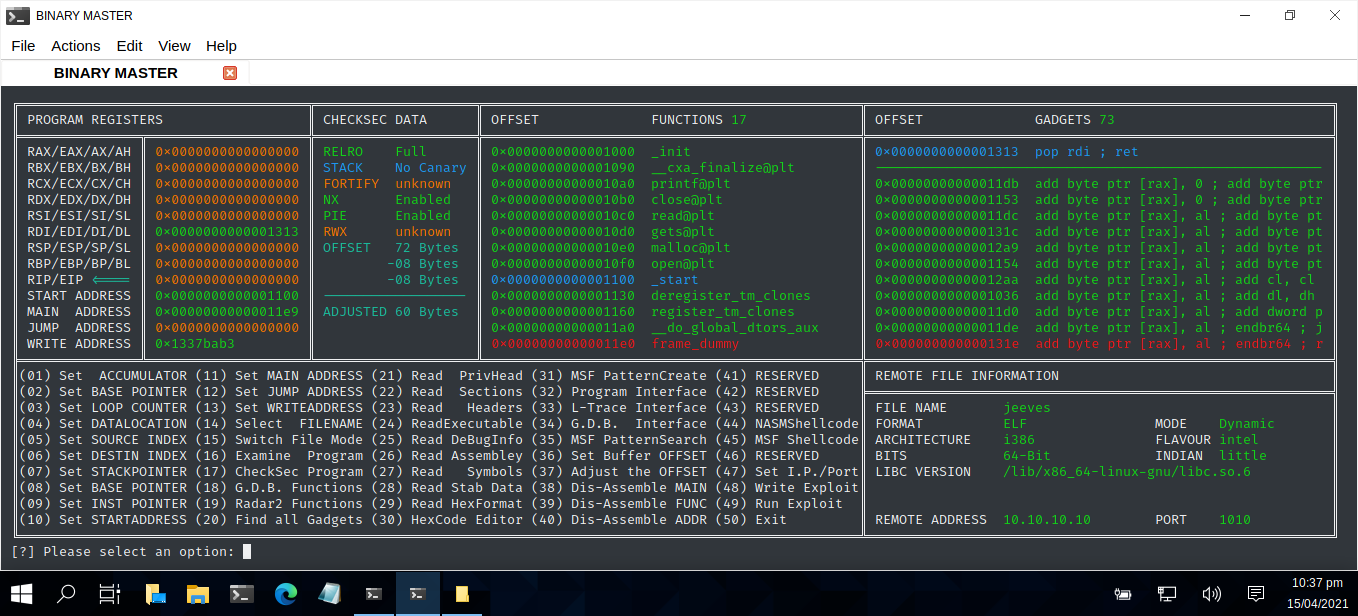
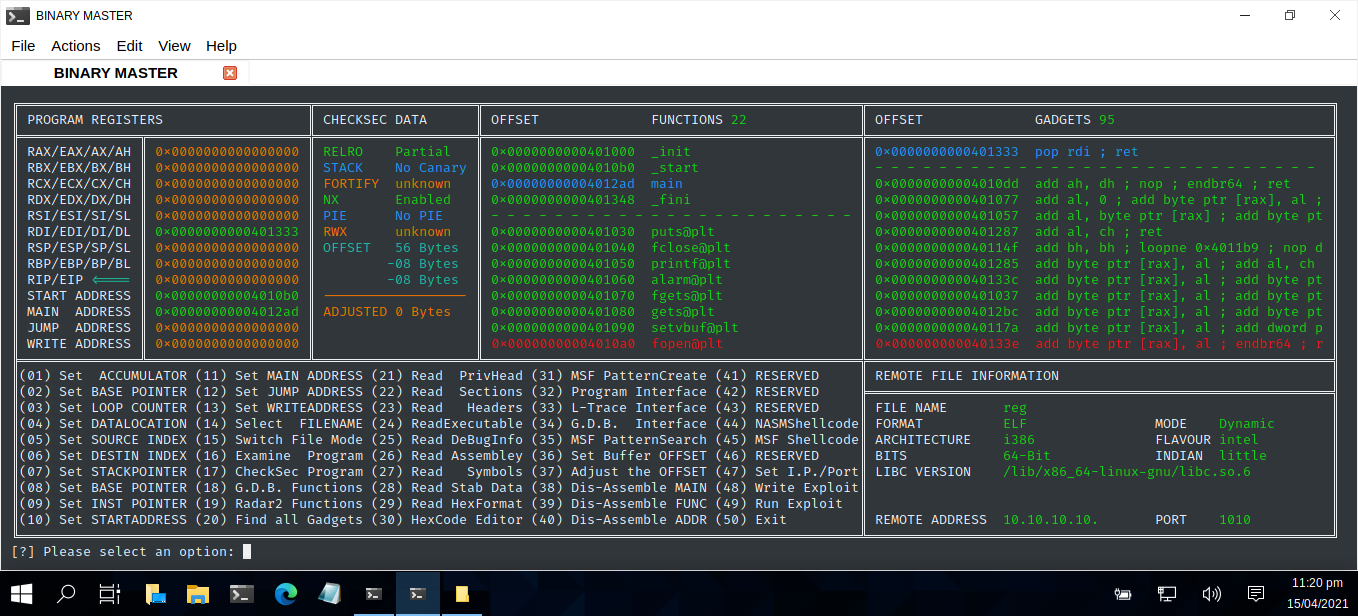
Full Stack

diff --git a/BinMaster.py b/BinMaster.py
@@ -161,7 +161,7 @@ def dispMenu():
       print('\u2551' + " " + colored(RE,colour7) + " " +  '\u2551', end=' ')
    else:
       print('\u2551' + " " + colored(RE,colour6) + " " +  '\u2551', end=' ')
-   if (SRT.rstrip(" ") in FUNC[0]):
+   if (MAN.rstrip(" ") in FUNC[0]):
       print(colored(FUNC[0],colour3), end=' ')
    else:
       print(colored(FUNC[0],colour6), end=' ')   
@@ -183,7 +183,7 @@ def dispMenu():
       else:
          print(colored(ST ,colour6), end=' ')      
    print('\u2551', end=' ')
-   if (SRT.rstrip(" ") in FUNC[1]):
+   if (MAN.rstrip(" ") in FUNC[1]):
       print(colored(FUNC[1],colour3), end=' ')
    else:
       print(colored(FUNC[1],colour6), end=' ')   
@@ -200,7 +200,7 @@ def dispMenu():
       print('\u2551' + " " + colored(FO,colour7) + " " +  '\u2551', end=' ')
    else:
       print('\u2551' + " " + colored(FO,colour6) + " " +  '\u2551', end=' ')   
-   if (SRT.rstrip(" ") in FUNC[2]):
+   if (MAN.rstrip(" ") in FUNC[2]):
       print(colored(FUNC[2],colour3), end=' ')
    else:
       print(colored(FUNC[2],colour6), end=' ')   
@@ -222,7 +222,7 @@ def dispMenu():
       else:
          print(colored(NX,colour6), end=' ')            
    print('\u2551', end=' ')      
-   if (SRT.rstrip(" ") in FUNC[3]):
+   if (MAN.rstrip(" ") in FUNC[3]):
       print(colored(FUNC[3],colour3), end=' ')
    else:
       print(colored(FUNC[3],colour6), end=' ')   
@@ -244,7 +244,7 @@ def dispMenu():
       else:
          print(colored(PI ,colour6), end=' ')         
    print('\u2551', end=' ')
-   if (SRT.rstrip(" ") in FUNC[4]):
+   if (MAN.rstrip(" ") in FUNC[4]):
       print(colored(FUNC[4],colour3), end=' ')
    else:
       print(colored(FUNC[4],colour6), end=' ')   
@@ -266,7 +266,7 @@ def dispMenu():
       else:
          print(colored(RW,colour6), end=' ')            
    print('\u2551', end=' ')   
-   if (SRT.rstrip(" ") in FUNC[5]):
+   if (MAN.rstrip(" ") in FUNC[5]):
       print(colored(FUNC[5],colour3), end=' ')
    else:
       print(colored(FUNC[5],colour6), end=' ')   
@@ -288,7 +288,7 @@ def dispMenu():
    else:
       print(colored("OFFSET   " + OFF[:9],colour2), end=' ')
       print('\u2551', end=' ')            
-   if (SRT.rstrip(" ") in FUNC[6]):
+   if (MAN.rstrip(" ") in FUNC[6]):
       print(colored(FUNC[6],colour3), end=' ')
    else:
       print(colored(FUNC[6],colour6), end=' ')   
@@ -311,7 +311,7 @@ def dispMenu():
    if BITS[:7] == "unknown":
       print(colored("         0 Bytes  ",colour7), end=' ')
    print('\u2551', end=' ')   
-   if (SRT.rstrip(" ") in FUNC[7]):
+   if (MAN.rstrip(" ") in FUNC[7]):
       print(colored(FUNC[7],colour3), end=' ')
    else:
       print(colored(FUNC[7],colour6), end=' ')   
@@ -338,7 +338,7 @@ def dispMenu():
    if BITS[:7] == "unknown":
       print(colored("         0 Bytes  ",colour7), end=' ')
    print('\u2551', end=' ')   
-   if (SRT.rstrip(" ") in FUNC[8]):
+   if (MAN.rstrip(" ") in FUNC[8]):
       print(colored(FUNC[8],colour3), end=' ')
    else:
       print(colored(FUNC[8],colour6), end=' ')      
@@ -357,7 +357,7 @@ def dispMenu():
    else:
       print(colored("-"*COL1,colour2), end=' ')
    print('\u2551', end=' ')   
-   if (SRT.rstrip(" ") in FUNC[9]): 
+   if (MAN.rstrip(" ") in FUNC[9]): 
       print(colored(FUNC[9],colour3), end=' ')
    else:
       print(colored(FUNC[9],colour6), end=' ')      
@@ -380,7 +380,7 @@ def dispMenu():
    else:
       print(colored(OFF2[:9],colour2),end=' ')   
    print('\u2551', end= ' ')
-   if (SRT.rstrip(" ") in FUNC[10]):
+   if (MAN.rstrip(" ") in FUNC[10]):
       print(colored(FUNC[10],colour3), end=' ')
    else:
       print(colored(FUNC[10],colour6), end=' ')   
@@ -395,7 +395,7 @@ def dispMenu():
       print(colored(JMP,colour6), end=' ')
    print('\u2551', end=' ') 
    print("                   " + '\u2551', end= ' ') 
-   if (SRT.rstrip(" ") in FUNC[11]):
+   if (MAN.rstrip(" ") in FUNC[11]):
       print(colored(FUNC[11],colour3), end=' ')
    else:
       print(colored(FUNC[11],colour6), end=' ')   
@@ -410,7 +410,7 @@ def dispMenu():
       print(colored(CUS,colour6), end=' ')
    print('\u2551', end=' ')  
    print("                   " + '\u2551', end= ' ') 
-   if (SRT.rstrip(" ") in FUNC[12]):
+   if (MAN.rstrip(" ") in FUNC[12]):
       print(colored(FUNC[12],colour3), end=' ')
    else:
       if FUNC[13] != "":
@@ -1169,6 +1169,22 @@ while True:
          command("sed -i '/0x/!d' functions.tmp")         
          funcNum = lineCount("functions.tmp")
          funcNum = spacePadding(str(funcNum),7)
+
+         command("cp functions.tmp " + localDir + "/functions.txt")
+         
+         command("awk '/ _init/' functions.tmp > altered.tmp")
+         cutLine("init","functions.tmp")
+         command("awk '/ _start/' functions.tmp >> altered.tmp")         
+         cutLine("start","functions.tmp")         
+         command("awk '/main/' functions.tmp >> altered.tmp")
+         cutLine("main","functions.tmp")
+         command("awk '/ _fini/' functions.tmp >> altered.tmp")                  
+         cutLine("fini","functions.tmp")
+         command("echo '- - - - - - - - - - - - - - - - - - - - - - - -' >> altered.tmp")
+         command("cat functions.tmp >> altered.tmp")
+         command("rm functions.tmp")
+         command("mv altered.tmp functions.tmp")
+                  
          with open("functions.tmp", "r") as functions:
             for x in range(0, maxDispl):
                FUNC[x] = functions.readline().rstrip(" ")
@@ -1186,8 +1202,7 @@ while True:
                for line in main:
                   address, checksum = line.split("  ")
                   if checksum[:4] == "main":
-                     MAN = spacePadding(address, COL1)                     
-         command("mv functions.tmp " + localDir + "/functions.txt")
+                     MAN = spacePadding(address, COL1)                          
       prompt()
       
 # ------------------------------------------------------------------------------------- 
@@ -1240,7 +1255,7 @@ while True:
          counter = lineCount("pop.tmp")
          if counter > 0:
             command("cat pop.tmp > full.tmp")
-            command("echo '--------------------------------------------------------' >> full.tmp")
+            command("echo '- - - - - - - - - - - - - - - - - - - - - - - - - - - - ' >> full.tmp")
             command("cat gadgets.tmp >> full.tmp")    
          
          with open("full.tmp","r") as gadgets:

diff --git a/README.md b/README.md
@@ -24,7 +24,7 @@ USAGE : python3 BinMaster.py
 
 | LANGUAGE  | FILENAME     | MD5 Hash                         | DESCRIPTION    | VERSION    |
 |------     |------        | -------                          | ------         | ----       |
-| python3   | BinMaster.py | 265e7be2d3b3a22fea0eaefcc6580908 | Command Centre | Full Stack |
+| python3   | BinMaster.py | 820997ba041d9dcdd68796e1a73ec877 | Command Centre | Full Stack |
 
 ### CONSOLE DISPLAY AND VIDEO LINK
 [![RamMater](https://github.com/BroadbentT/BIN-MASTER/blob/master/picture3.png)](https://youtu.be/8-ZtmyBInUM "Binary Master")
